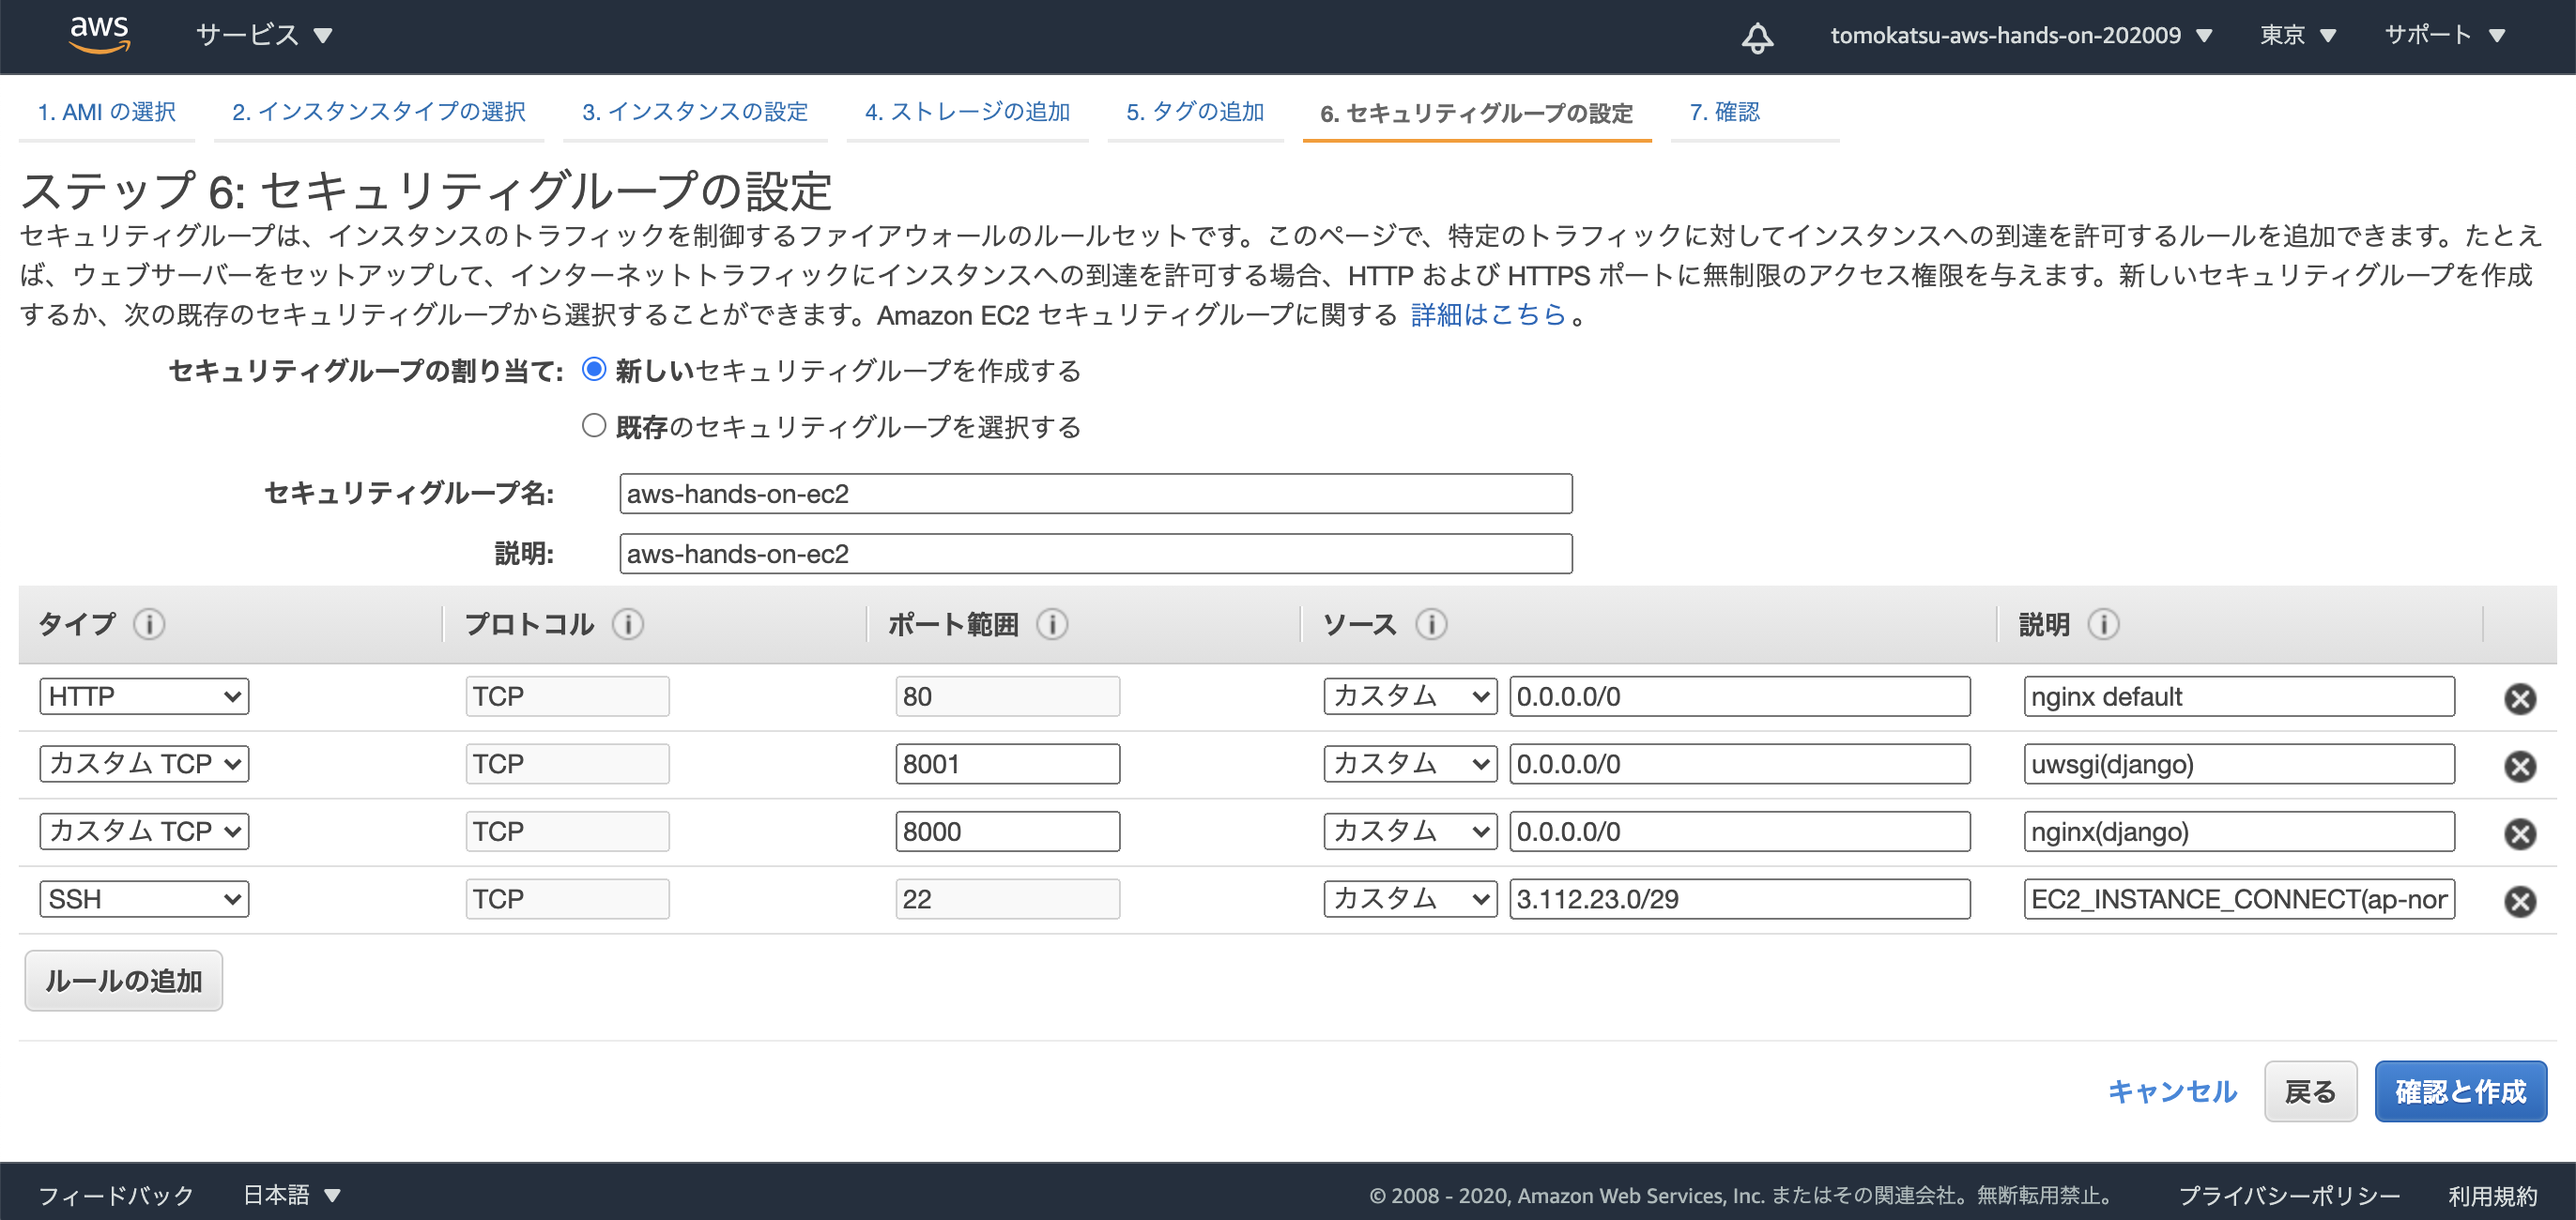
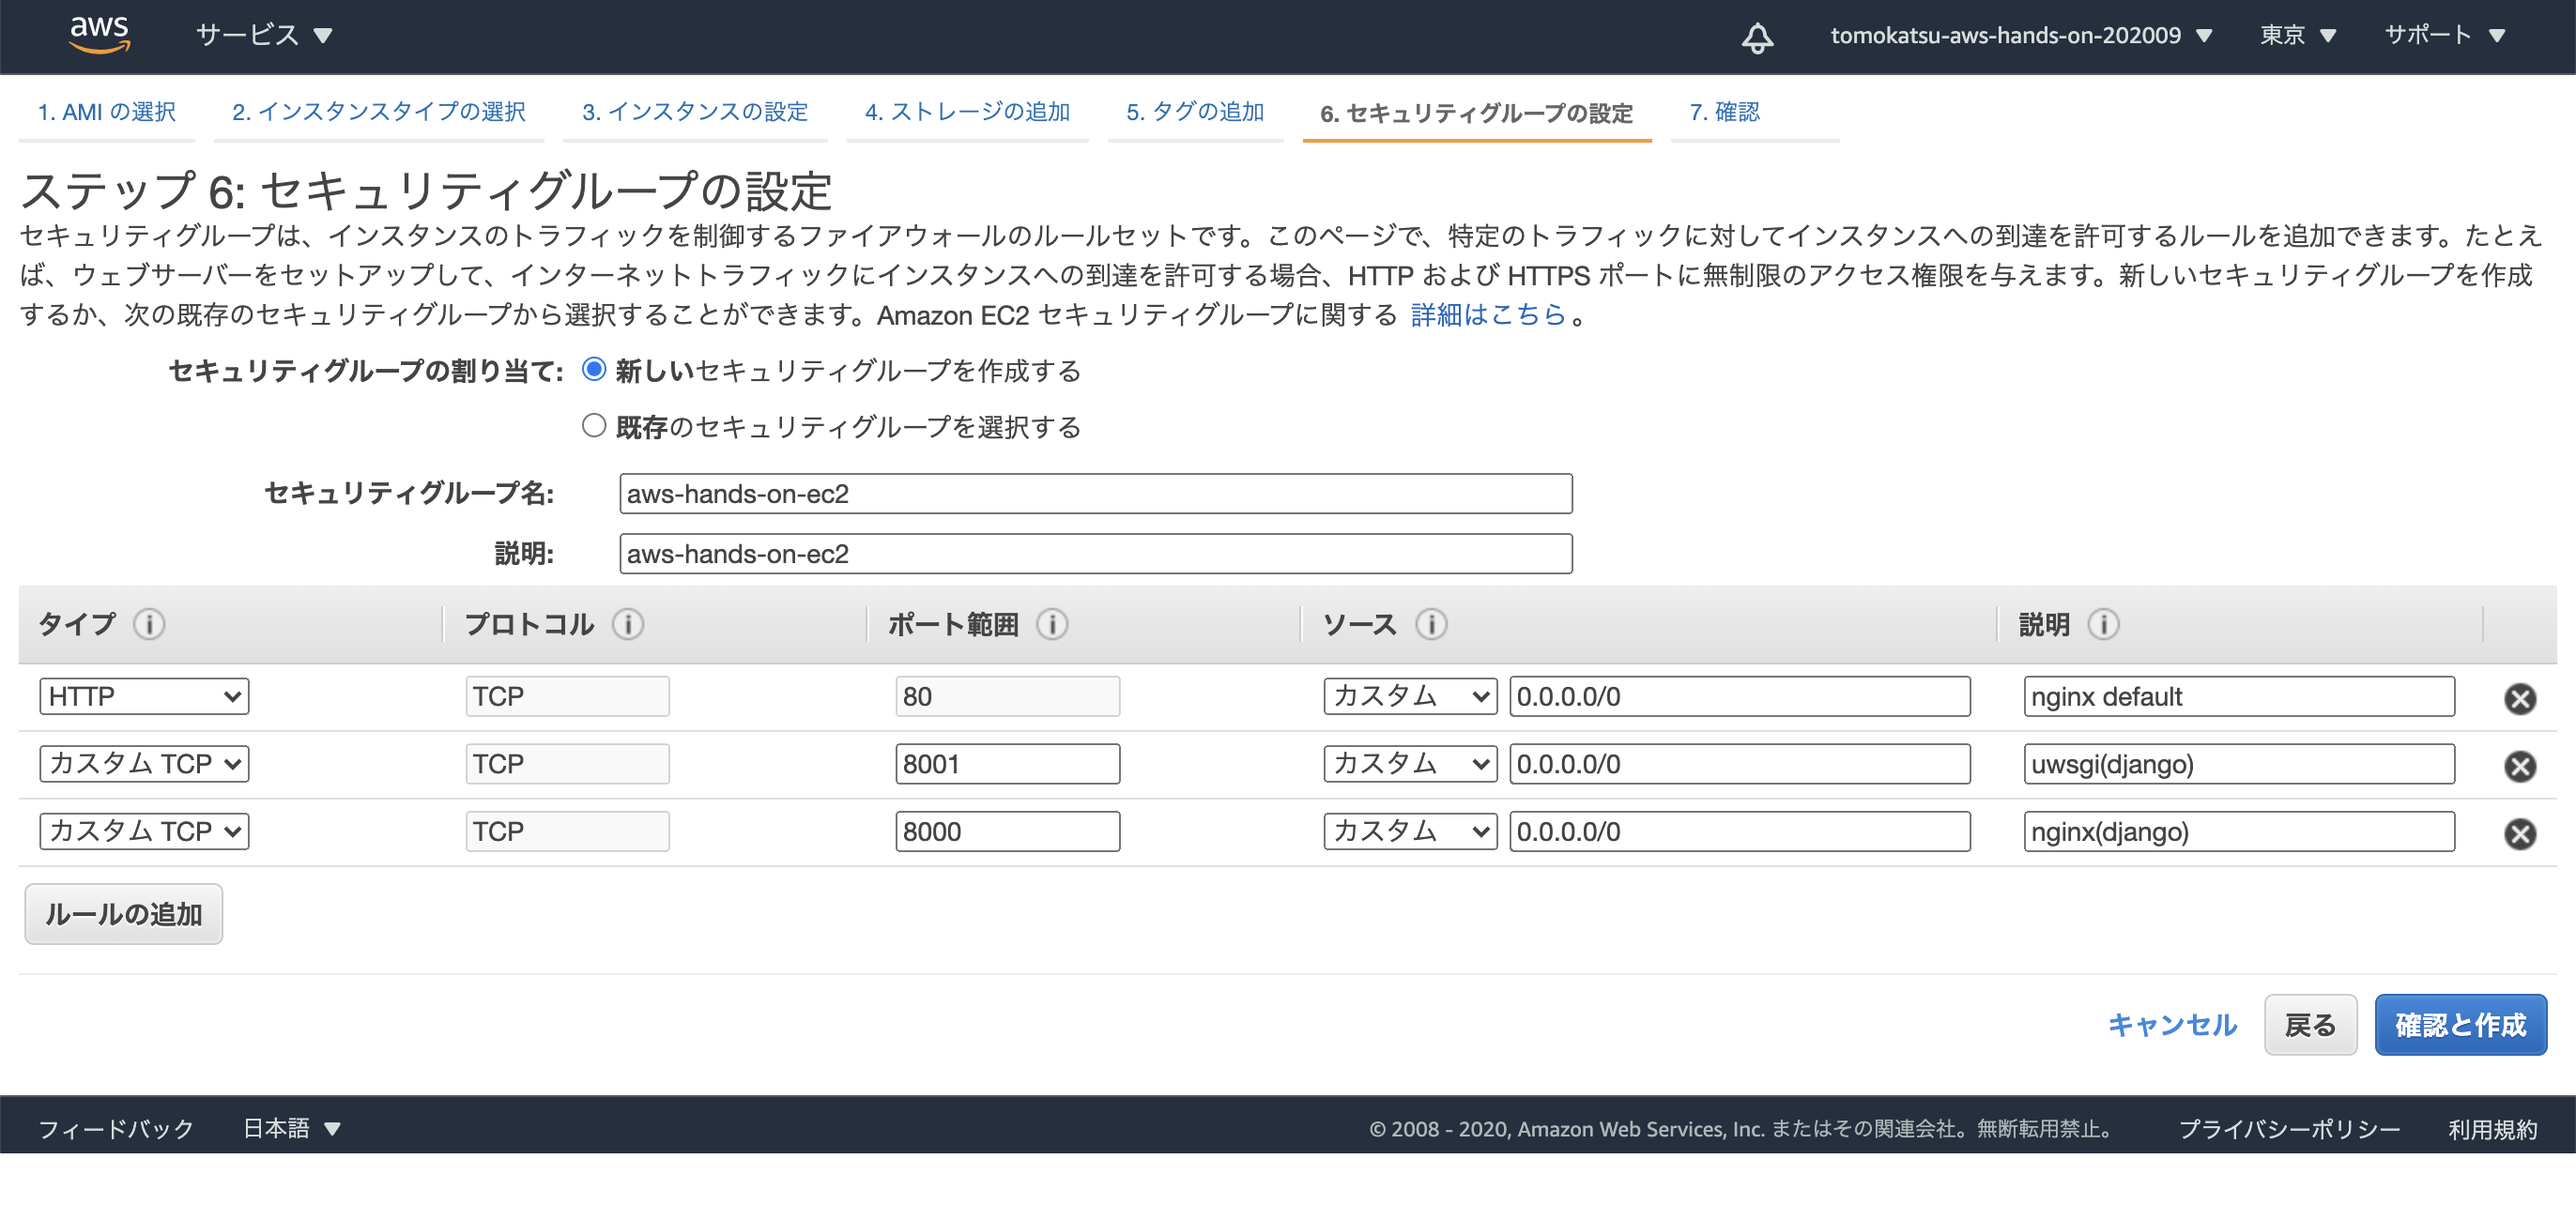
step3,4をアップデート

diff --git a/docs/Step_3.md b/docs/Step_3.md
@@ -45,7 +45,8 @@
 ## EC2 インスタンスを起動してみよう
 * https://ap-northeast-1.console.aws.amazon.com/ec2/v2/home?region=ap-northeast-1#Instances:
 * `インスタンスを起動` ボタンをクリック
-* 左の`無料利用枠のみ`にチェックを入れ、`Amazon Linux 2 AMI (HVM), SSD Volume Type 　64 ビット (x86)`にある`選択`ボタンをクリック
+* 左の`無料利用枠のみ`にチェックを入れ、`Amazon Linux 2 AMI (HVM) - Kernel 5.10, SSD Volume Type`にある`選択`ボタンをクリック
+  * ラジオボタンは `64 ビット (x86)` を選択しておく
   * <img src="./assets/step3_ec2_run_01.png" width="800px">
 * インスタンスタイプは `t2.micro (無料利用枠の対象)` が選択された状態で`次のステップ: インスタンスの詳細の設定`ボタンをクリック
   * <img src="./assets/step3_ec2_run_02.png" width="800px">
@@ -70,7 +71,7 @@
       |  HTTP         | TCP        | 80       |カスタム 0.0.0.0/0 | nginx default |
       |  カスタムTCP   | TCP        | 8001     |カスタム 0.0.0.0/0 | uwsgi(django) |
       |  カスタムTCP   | TCP        | 8000     |カスタム 0.0.0.0/0 | nginx(django)    |
-      |  SSH          | TCP        | 22       |カスタム 0.0.0.0/0 | EC2_INSTANCE_CONNECT(ap-northeast-1) |
+
   * `確認と作成` ボタンをクリック
 * `起動` ボタンをクリック
   * キーペアについて質問されるので `キーペアなしで続行` を選択し、チェックボックスにもチェックを入れる
@@ -228,18 +229,3 @@
             └─4805 systemctl status amazon-ssm-agent.service
   ```
   * これをみると、amazon-ssm-agent.service　のプロセスから sh や bash が起動されてることがわかる
-
-## CodeDeployの Agent について
-* CodeDeploy とは、この後の手順で Django アプリケーションをデプロイするために使う仕組みです
-* Codedeploy を使って EC2 インスタンスにデプロイするためには、専用の Agent が必要です
-  * これも　Amazon Linux 2 には初期状態でインストールされていて、自動起動される
-  ```
-  [ssm-user@ip-172-31-22-149 ~]$ systemctl status codedeploy-agent.service
-  ● codedeploy-agent.service - AWS CodeDeploy Host Agent
-    Loaded: loaded (/usr/lib/systemd/system/codedeploy-agent.service; enabled; vendor preset: disabled)
-    Active: active (running) since Fri 2020-09-25 08:06:08 UTC; 1h 0min ago
-  Main PID: 3766 (ruby)
-    CGroup: /system.slice/codedeploy-agent.service
-            ├─3766 codedeploy-agent: master 3766
-            └─3770 codedeploy-agent: InstanceAgent::Plugins::CodeDeployPlugin::CommandPoller of master 3766
-  ```

diff --git a/docs/Step_4.md b/docs/Step_4.md
@@ -6,8 +6,38 @@
   [ssm-user@ip-172-31-22-149 bin]$ ll /web
   ls: cannot access /web: No such file or directory
   ```
+## CodeDeployの Agent について
+* Codedeploy を使って EC2 インスタンスにデプロイするためには、専用の Agent が必要です
+  * インストールされていないことを確認
+  ```
+  [ssm-user@ip-172-31-22-149 ~]$ systemctl status codedeploy-agent.service
+  Unit codedeploy-agent.service could not be found.
+  ```
+* 通常　Linux にアプリケーションをインストールする場合、パッケージマネージャーを使う
+    * Amazon Linux 2 では `yum` というパッケージマネージャーがデフォルトで使える
+    * Step 3 の Extra 項目で使っていたコマンドもこの `yum`
+    * しかし　codedeploy-agent は yum でインストールできるようなパッケージが用意されていない
+* 今回は、AWS マネジメントコンソールからログインする方法を試してみる
+* 参考: https://dev.classmethod.jp/articles/codedeploy-agent-ssm-distributor/#toc-4
 
-# 皆さんが思いつく、あるいは実施したことがあるデプロイの方法って何かあります？
+## codedeploy-agent をインストールする
+* AWS Systems Manager のディストリビューターを使う
+* https://ap-northeast-1.console.aws.amazon.com/systems-manager/distributor?region=ap-northeast-1
+* `AWSCodeDeployAgent` と入力して検索する
+  * <img src="./assets/step4_code_deploy_agent_01.png" width="800px">
+  * `AWSCodeDeployAgent` のリンクをクリック
+* 右上の`1回限りのインストール`ボタンをクリック 
+  * <img src="./assets/step4_code_deploy_agent_02.png" width="800px">
+* 下にスクロールし、`ターゲット`の項目で`インスタンス を手動で選択する`を選択
+  * <img src="./assets/step4_code_deploy_agent_03.png" width="800px">
+  * `Instances` の項目で表示されているインスタンスのチェックボックスをチェックする
+* さらに下にスクロールし、`出力オプション` の `S3バケットへの書き込みを有効化する` でチェックを外す
+  * <img src="./assets/step4_code_deploy_agent_04.png" width="800px">
+* `実行`ボタンを押す
+* ステータスが `進行中` から `成功` になれば OK
+  * <img src="./assets/step4_code_deploy_agent_05.png" width="800px">
+
+## 実行を待っている間に。皆さんが思いつく、あるいは実施したことがあるデプロイの方法って何かあります？
 * etc ...
 
 # tomokatsu/aws-hands-on リポジトリを fork
